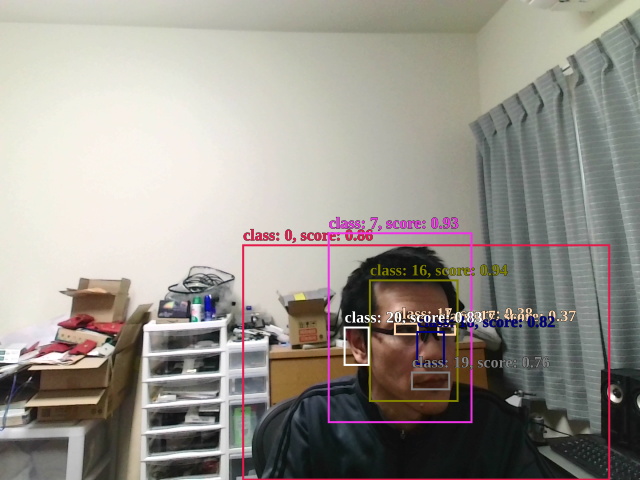
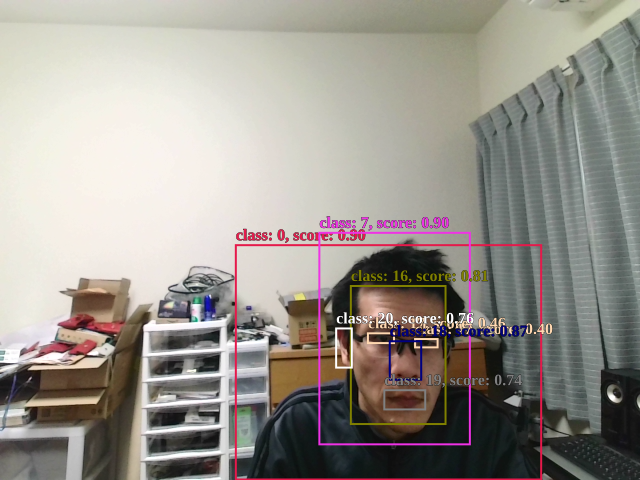
title

Changed region(s): [[0.3438, 0.4375, 0.9688, 1.0]]

diff --git a/demos/yolov9_wholebody25/src/index.html b/demos/yolov9_wholebody25/src/index.html
@@ -3,7 +3,7 @@
 <head>
   <meta charset="UTF-8">
   <meta name="viewport" content="width=device-width, initial-scale=1.0">
-  <title>Hide Your Mess Behind with OpenVINO</title>
+  <title>YOLOv9-Wholebody25 with OpenVINO</title>
   <link rel="stylesheet" href="styles.css">
 </head>
 <body>
